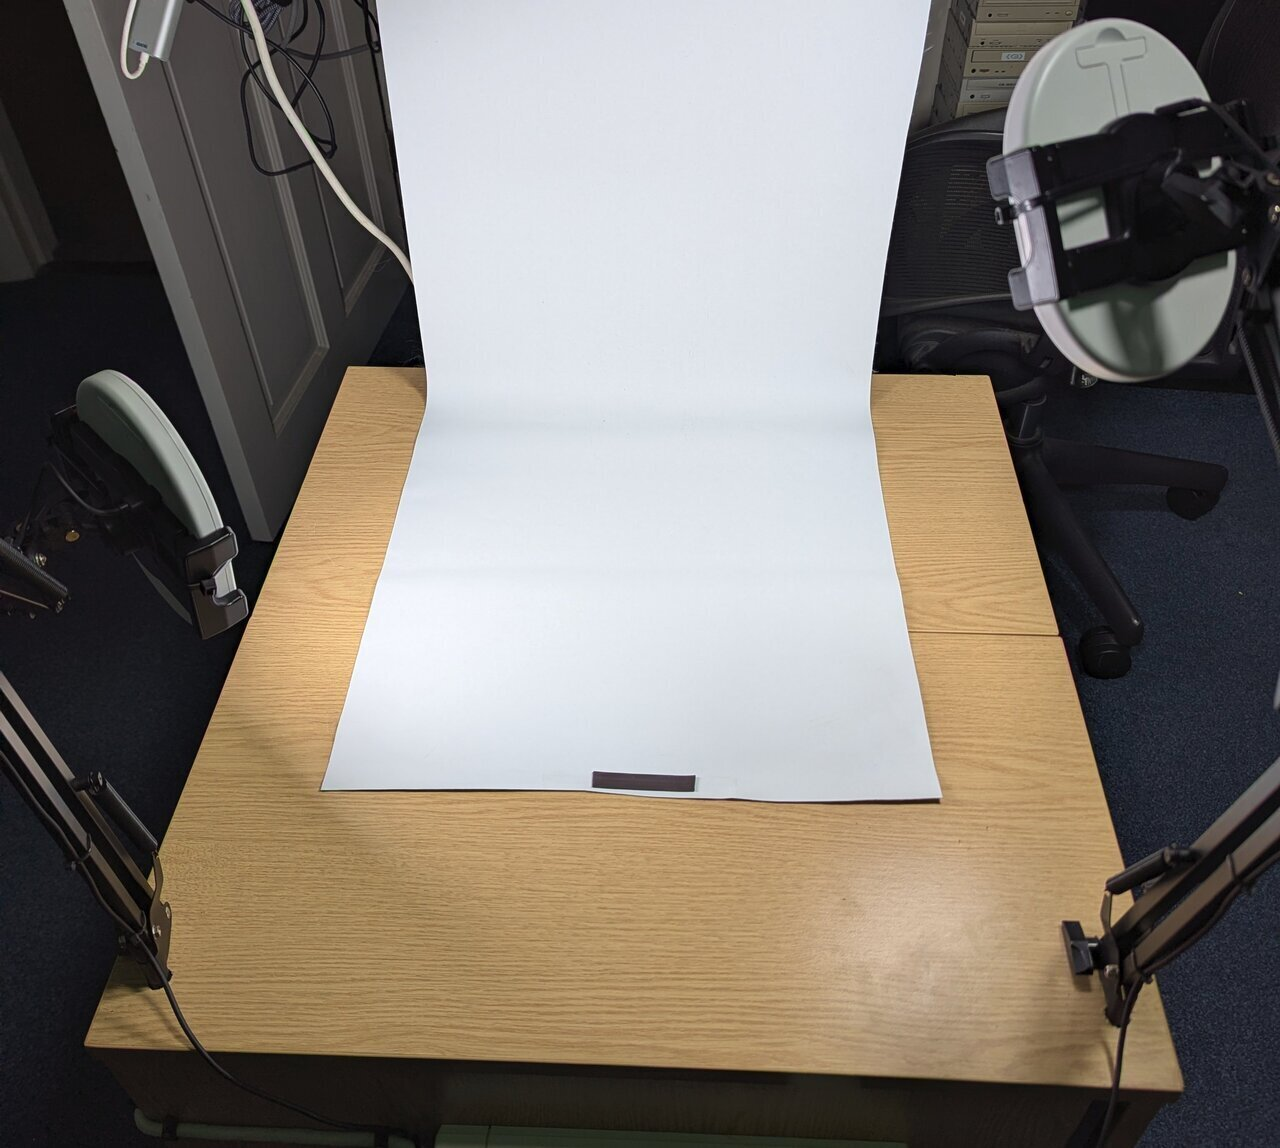
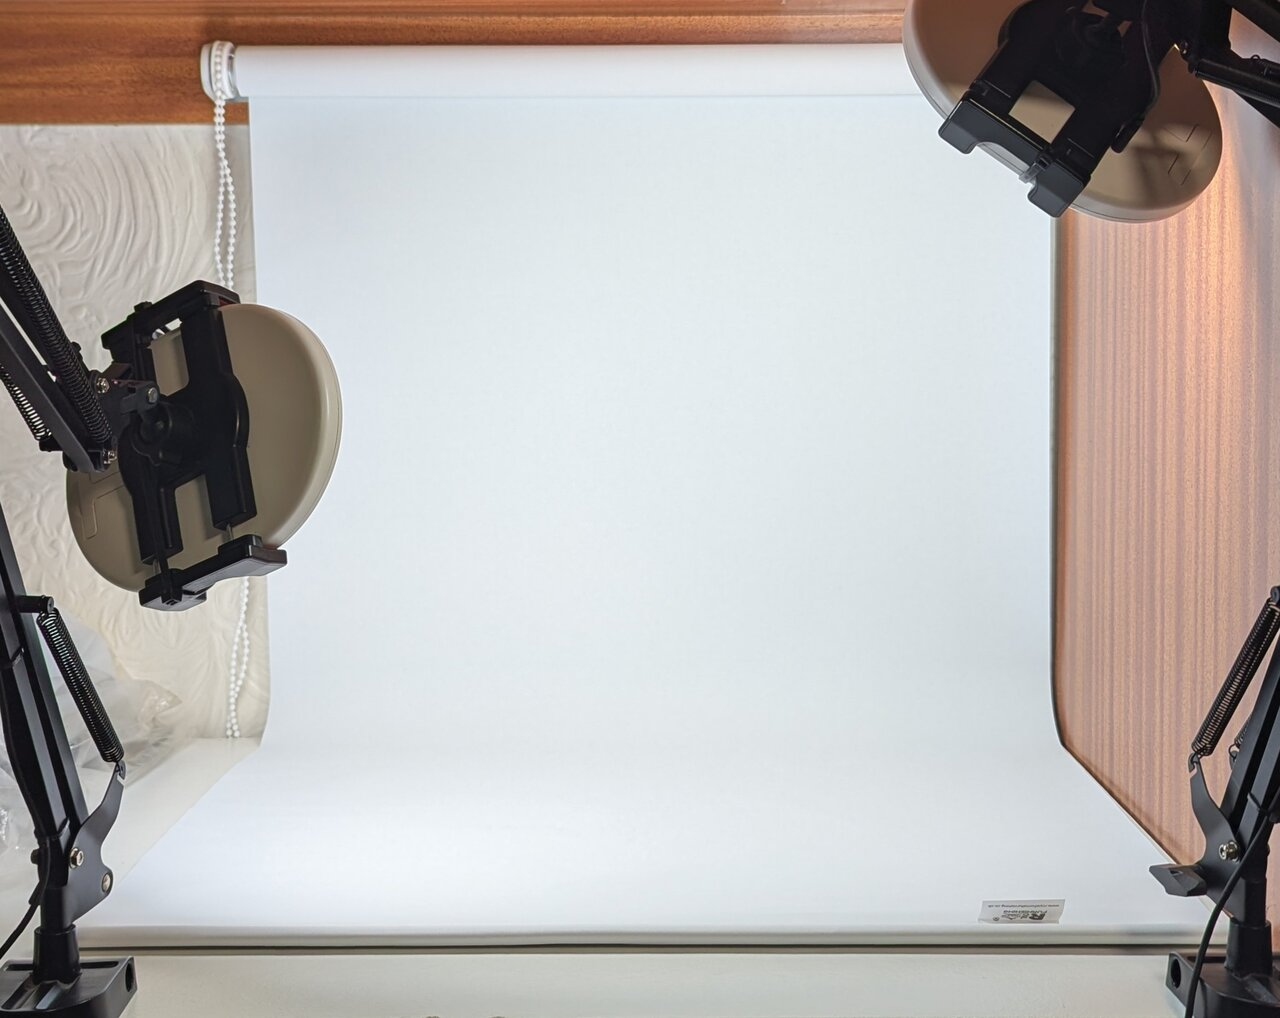
- updated SAD lamp photo and description

diff --git a/_articles/repurposing-SAD-lamps-as-photography-lights/index.md b/_articles/repurposing-SAD-lamps-as-photography-lights/index.md
@@ -107,7 +107,7 @@ SAD lamps are designed to run for up to an hour at a time, so they handle always
 With two lamps modified and mounted on mobile phone arms, I have a flexible two-light setup that I can reposition freely to control shadows and reduce glare. Both come on the moment I switch the mains, at full brightness, with consistent colour temperature across the whole panel.
 
 ![Two SAD lamps on mobile phone arms around a photo backdrop](./lights-on-mobile-phone-arms.jpg)
-*The backdrop is just a cut-off from a white blackout blind held on with magnets to the desk. Easy to pack away.*
+*I use white blackout blinds as backdrops as they are cheap, you can roll them up when not needed and trim them as they get damaged.*
 
 The proof is in the results - at this point I feel the limiting factor is my phone camera, not the light.
 
